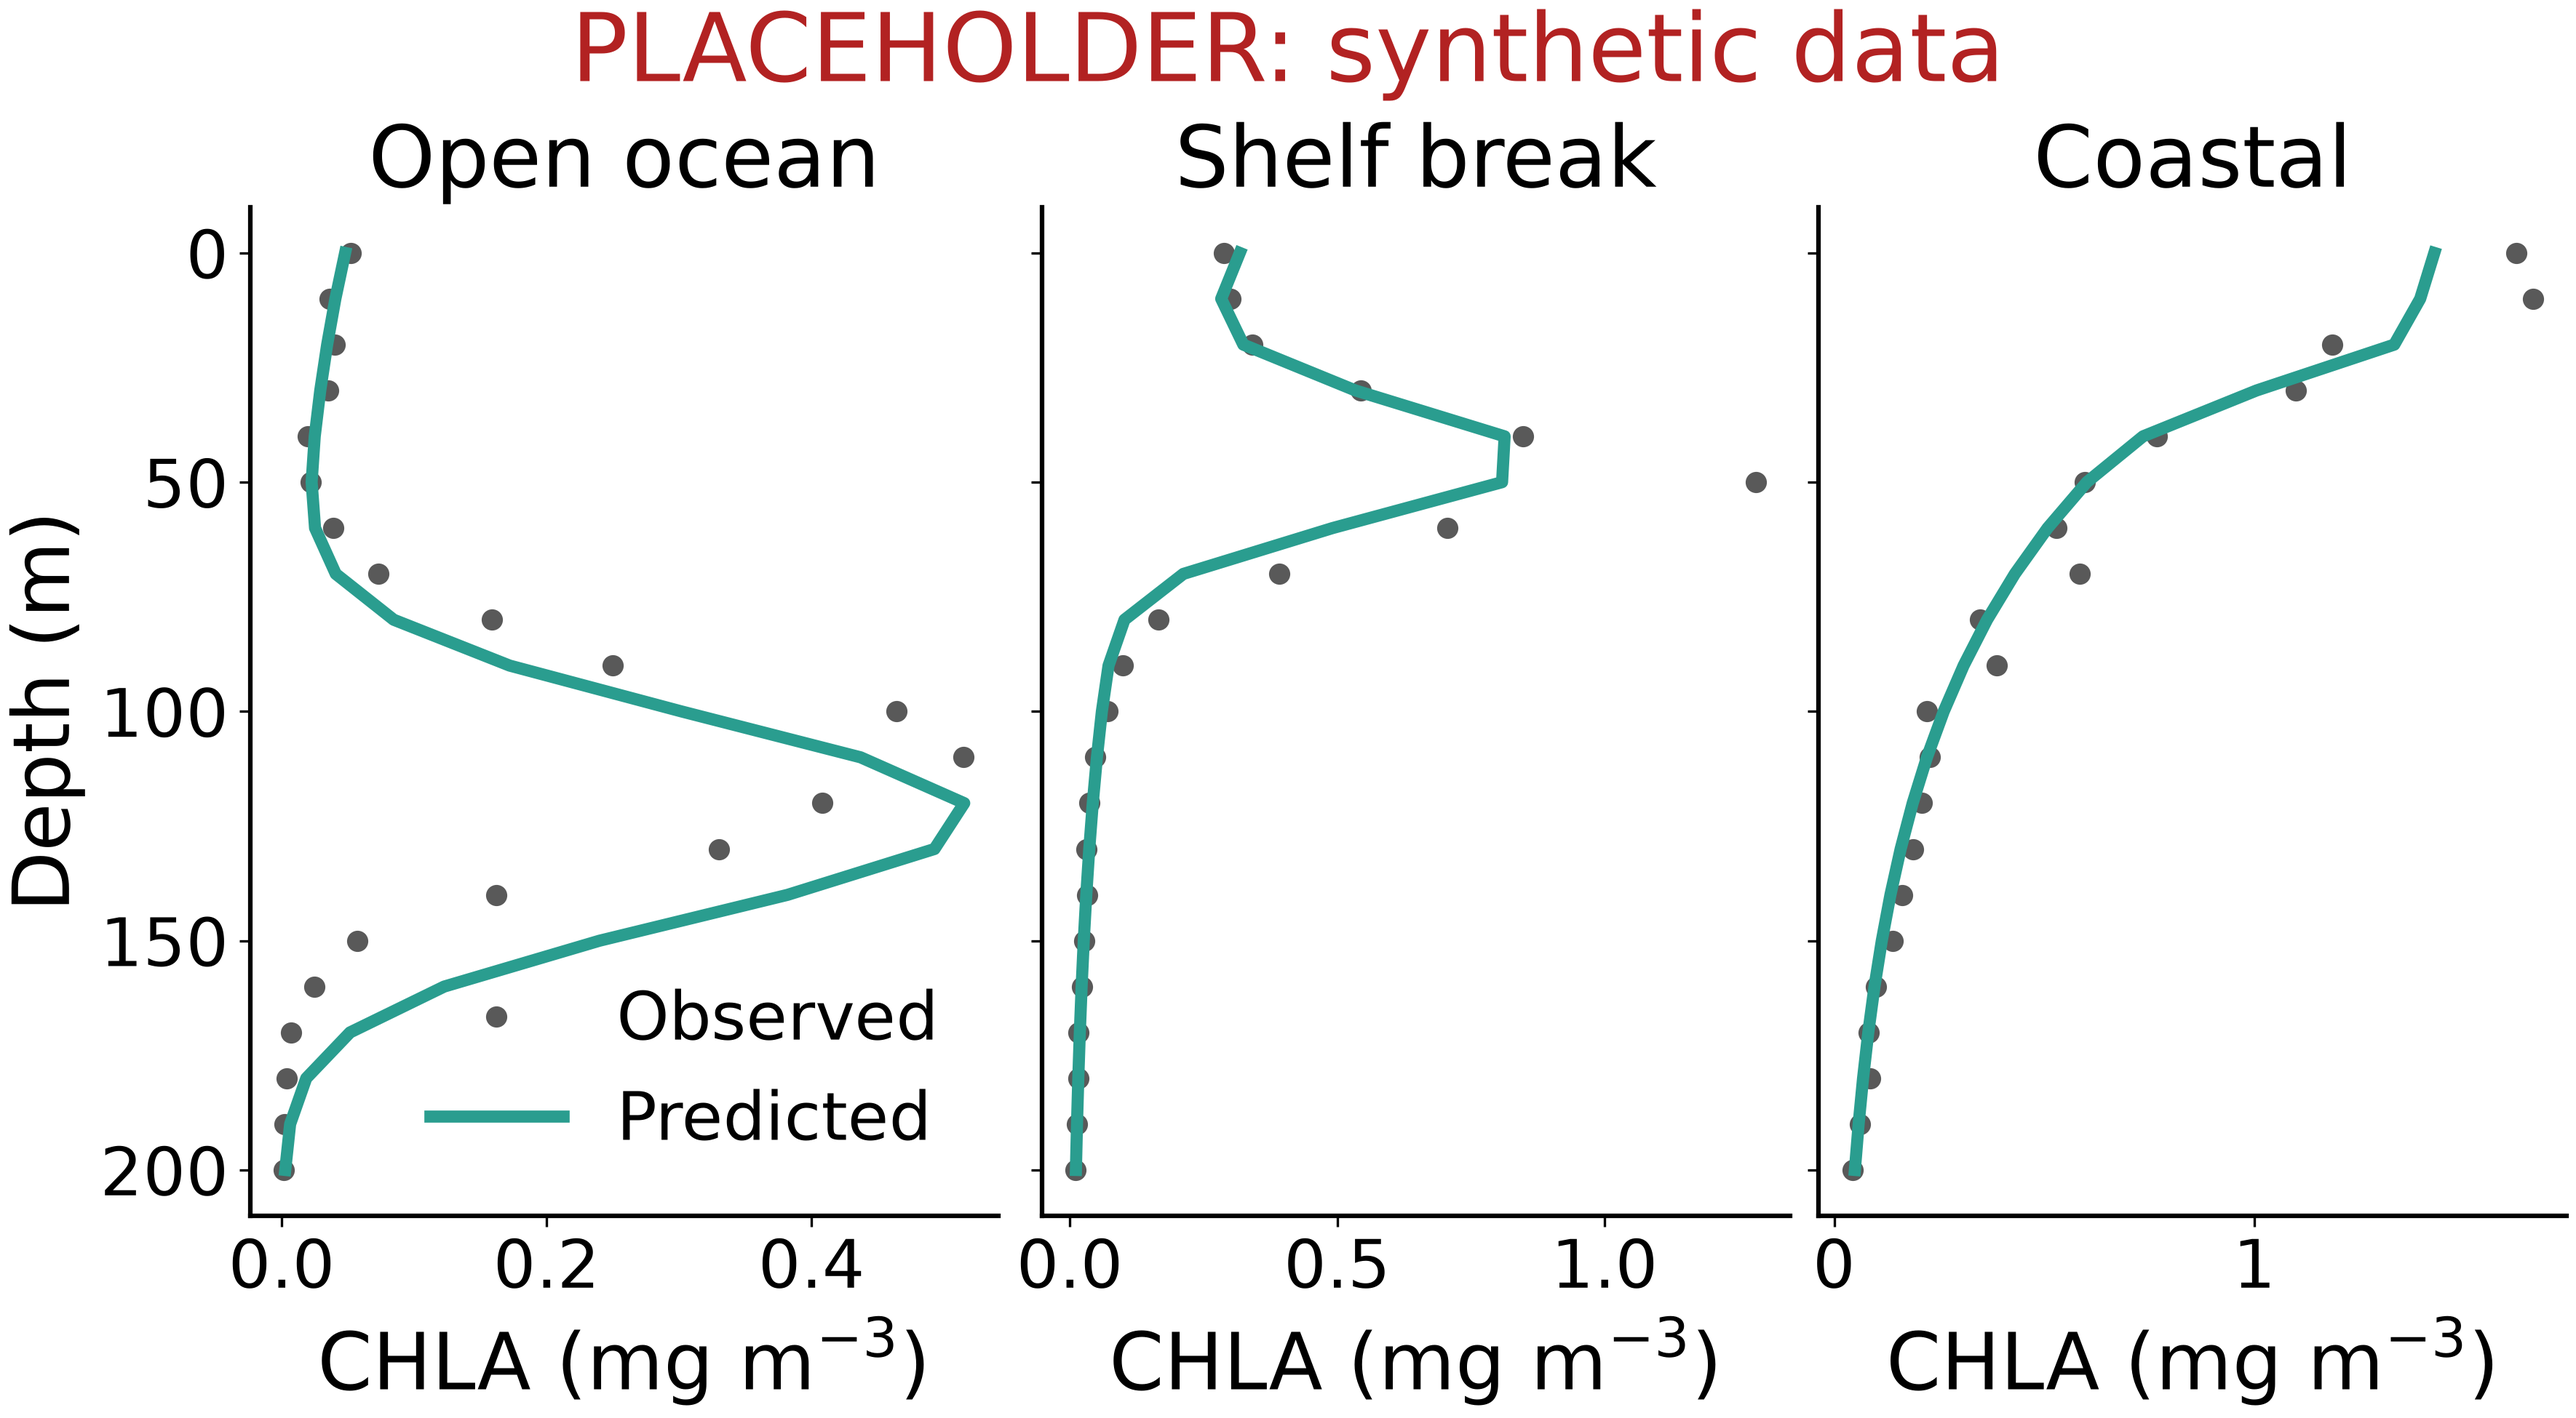
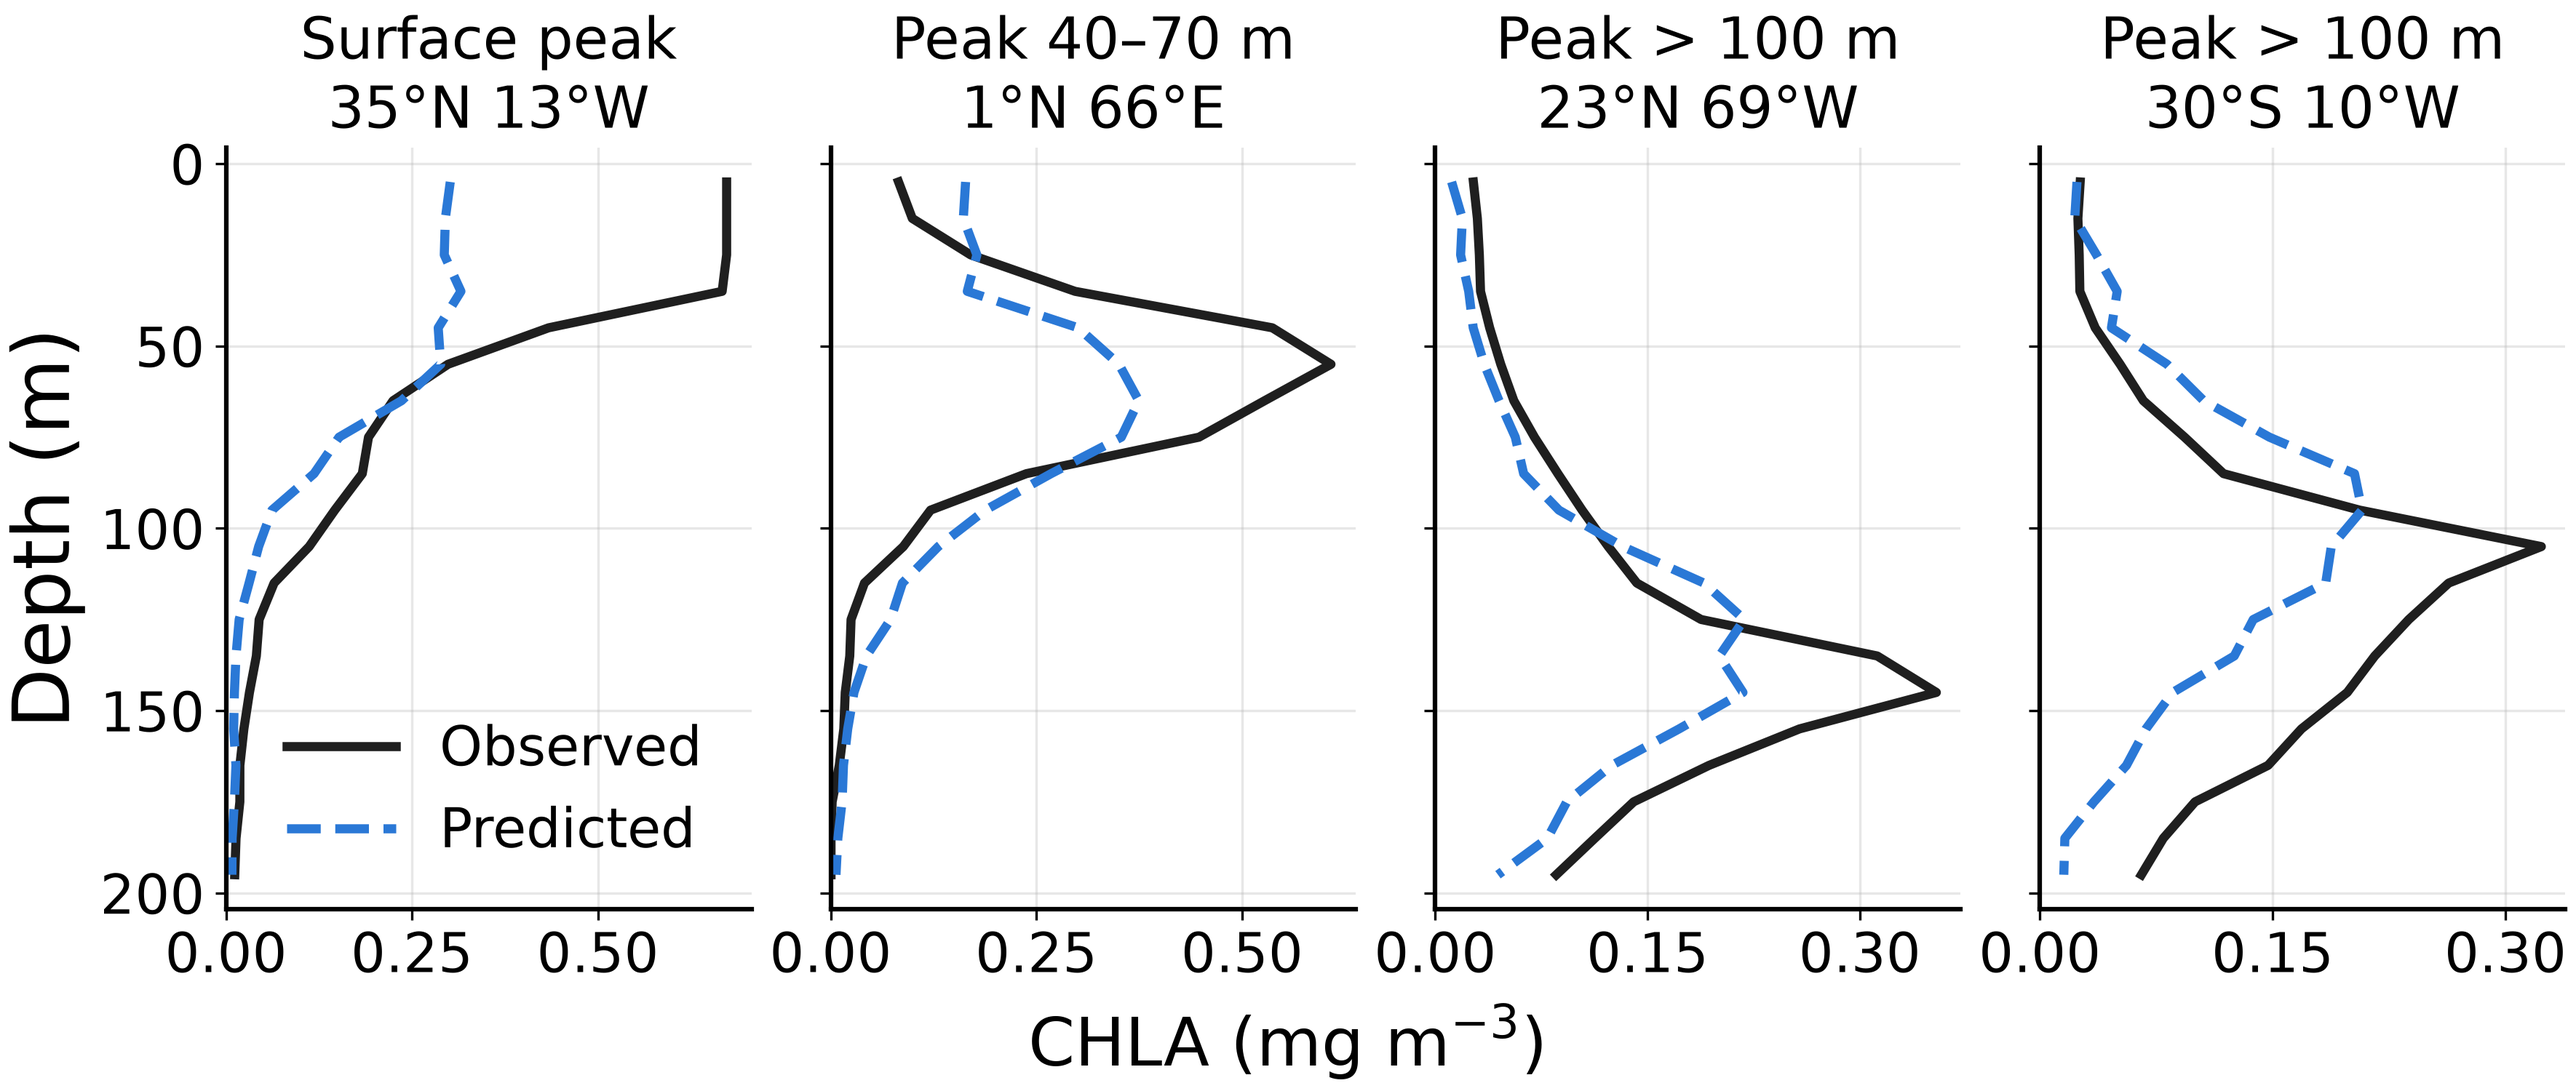
Draft figures: example profiles (intro) and skill by water depth (#11)
profile_metrics.py scores integrated CHLA and peak depth per profile from
the saved out-of-fold predictions. Both figures use the Argo+OOI model
under the space-time block split (#20). Example profiles are random draws
within peak-depth categories, not picked for fit.

diff --git a/poster/scripts/fig_example_profiles.py b/poster/scripts/fig_example_profiles.py
@@ -1,58 +1,79 @@
-"""PLACEHOLDER figure: synthetic observed vs. predicted chlorophyll profiles.
+"""Introduction figure: observed vs predicted CHLA profiles (issue #13).
 
-Shows how a figure script feeds the poster. Replace with a real figure.
-Writes figures/fig_example_profiles.png, sized to one poster column.
+Shows the known result the poster builds on: Rrs predicts the open-ocean
+profile, including a deep chlorophyll maximum. Predictions are out-of-fold
+from the leakage-free evaluation (#20): Argo+OOI model, space-time block
+split (1° cell x 30 d), repeat 0, so each profile was predicted by a model
+that saw nothing from its cell within that 30-day block.
 
-Run from anywhere: python poster/scripts/fig_example_profiles.py
+Profiles are drawn at random (fixed seed) within each panel's category, not
+picked for a good fit. Categories by observed peak depth and water depth
+(ETOPO 2022, poster/analysis/bathymetry). Inputs live in ~/shared-public.
 """
 
 from pathlib import Path
 
-import matplotlib
-
-matplotlib.use("Agg")
 import matplotlib.pyplot as plt
 import numpy as np
+import pandas as pd
 
 from poster_style import COLUMN_WIDTH_IN, DPI, apply_style
 
-OUT = Path(__file__).resolve().parent.parent / "figures" / "fig_example_profiles.png"
+SHARED = Path.home() / "shared-public" / "chla-z"
+PREDS = SHARED / "split-design" / "runs" / "full" / "preds" / "both__spacetime__1deg_30d__r0.parquet"
+DEPTH = SHARED / "bathymetry" / "water_depth_2026_11_23.parquet"
+OUT = Path(__file__).resolve().parents[1] / "figures" / "fig_example_profiles.png"
+SEED = 7
+
+OBS, PRED = "#1f1f1f", "#2a78d6"
 
 
-def profile(depth, surface, peak, peak_depth, width):
-    """Surface background that decays with depth plus a Gaussian deep maximum."""
-    background = surface * np.exp(-depth / 60)
-    dcm = peak * np.exp(-((depth - peak_depth) ** 2) / (2 * width**2))
-    return background + dcm
+def load():
+    p = pd.read_parquet(PREDS)
+    p["top"] = p["bin"].str.split("_").str[1].astype(int)
+    p["z"] = p["top"] + 5
+    wd = pd.read_parquet(DEPTH, columns=["profile_id", "depth_class", "lat", "lon"])
+    p = p.merge(wd, on="profile_id", how="left")
+    full = p.groupby("profile_id")["top"].nunique()
+    p = p[p["profile_id"].isin(full[full == 20].index)]
+    peak = p.loc[p.groupby("profile_id")["y"].idxmax(), ["profile_id", "z"]].set_index("profile_id")["z"]
+    p["peak"] = p["profile_id"].map(peak)
+    return p
 
 
 def main():
     apply_style()
-    rng = np.random.default_rng(42)
-    depth = np.arange(0, 201, 10)
-    cases = [
-        ("Open ocean", dict(surface=0.05, peak=0.45, peak_depth=110, width=20)),
-        ("Shelf break", dict(surface=0.3, peak=0.8, peak_depth=50, width=15)),
-        ("Coastal", dict(surface=1.5, peak=0.4, peak_depth=20, width=10)),
+    p = load()
+    a = p[(p["platform"] == "argo") & (p["depth_class"] == "open ocean")]
+    rng = np.random.default_rng(SEED)
+    cats = [
+        ("Surface peak", a[a["peak"] <= 15]),
+        ("Peak 40–70 m", a[a["peak"].between(40, 70)]),
+        ("Peak > 100 m", a[a["peak"] > 100]),
+        ("Peak > 100 m", a[a["peak"] > 100]),
     ]
-
-    fig, axes = plt.subplots(1, 3, figsize=(COLUMN_WIDTH_IN, 6.5), sharey=True)
-    for ax, (name, params) in zip(axes, cases):
-        truth = profile(depth, **params)
-        observed = truth * rng.lognormal(0, 0.15, depth.size)
-        predicted = profile(depth, **{k: v * rng.uniform(0.85, 1.15) for k, v in params.items()})
-        ax.plot(observed, depth, "o", color="0.35", label="Observed")
-        ax.plot(predicted, depth, "-", lw=4, color="#2a9d8f", label="Predicted")
-        ax.set_title(name)
-        ax.set_xlabel("CHLA (mg m$^{-3}$)")
-    axes[0].set_ylabel("Depth (m)")
-    axes[0].invert_yaxis()
-    axes[0].legend(loc="lower right", frameon=False)
-    fig.suptitle("PLACEHOLDER: synthetic data", color="firebrick")
-
-    OUT.parent.mkdir(exist_ok=True)
+    picked = []
+    for title, s in cats:
+        ids = [i for i in s["profile_id"].unique() if i not in picked]
+        picked.append(rng.choice(ids))
+    fig, axs = plt.subplots(1, len(cats), figsize=(COLUMN_WIDTH_IN, 5.0), sharey=True)
+    for ax, (title, _), pid in zip(axs, cats, picked):
+        g = p[p["profile_id"] == pid].sort_values("z")
+        ax.plot(10 ** g["y"], g["z"], color=OBS, lw=3, label="Observed")
+        ax.plot(10 ** g["yhat"], g["z"], color=PRED, lw=3, ls="--", label="Predicted")
+        ax.set_xlim(left=0)
+        ax.xaxis.set_major_locator(plt.MaxNLocator(3))
+        lat, lon = g["lat"].iat[0], g["lon"].iat[0]
+        ax.set_title(f"{title}\n{abs(lat):.0f}°{'N' if lat >= 0 else 'S'} {abs(lon):.0f}°{'E' if lon >= 0 else 'W'}",
+                     fontsize=19)
+        ax.grid(alpha=0.3)
+        ax.tick_params(labelsize=18)
+    axs[0].invert_yaxis()
+    axs[0].set_ylabel("Depth (m)")
+    fig.supxlabel("CHLA (mg m$^{-3}$)", fontsize=22)
+    axs[0].legend(loc="lower right", frameon=False, fontsize=18)
     fig.savefig(OUT, dpi=DPI)
-    print(f"wrote {OUT}")
+    print("profiles:", list(picked))
 
 
 if __name__ == "__main__":

diff --git a/poster/scripts/fig_coastal_skill.py b/poster/scripts/fig_coastal_skill.py
@@ -1,0 +1,92 @@
+"""Block 2 figure: skill by water depth class (issue #11).
+
+Left: R² of log10 CHLA in each 10 m bin, for profiles in open ocean
+(> 1000 m), slope (200-1000 m) and shelf (< 200 m) water (ETOPO 2022 depth at
+the profile, poster/analysis/bathymetry). Right: observed vs predicted
+integrated CHLA (sum over the contiguous bins from the surface, at least 5).
+
+Predictions are out-of-fold from the leakage-free evaluation (#20): Argo+OOI
+model, space-time block split (1° cell x 30 d), mean over 5 repeats with the
+min-max range shaded. A bin is drawn only when it has at least MIN_UNITS
+independent units (Argo floats or OOI sites) and MIN_ROWS rows in that class,
+so a handful of instruments cannot make a point.
+"""
+
+from pathlib import Path
+import sys
+
+import matplotlib.pyplot as plt
+import numpy as np
+import pandas as pd
+
+from poster_style import COLUMN_WIDTH_IN, DPI, apply_style
+
+sys.path.insert(0, str(Path(__file__).resolve().parents[1] / "analysis" / "split_design"))
+import profile_metrics as pm  # noqa: E402
+
+SHARED = Path.home() / "shared-public" / "chla-z"
+PREDS = sorted((SHARED / "split-design" / "runs" / "full" / "preds").glob("both__spacetime__1deg_30d__r*.parquet"))
+DEPTH = SHARED / "bathymetry" / "water_depth_2026_11_23.parquet"
+OUT = Path(__file__).resolve().parents[1] / "figures" / "fig_coastal_skill.png"
+CLASSES = [("open ocean", "Open ocean > 1000 m", "#2a78d6"),
+           ("slope", "Slope 200–1000 m", "#eb6834"),
+           ("shelf", "Shelf < 200 m", "#1baf7a")]
+MIN_UNITS, MIN_ROWS = 3, 100
+
+
+def r2(g):
+    e = g["yhat"] - g["y"]
+    return 1 - (e ** 2).sum() / ((g["y"] - g["y"].mean()) ** 2).sum()
+
+
+def main():
+    apply_style()
+    wd = pd.read_parquet(DEPTH, columns=["profile_id", "depth_class"])
+    per_bin, integ = [], []
+    for f in PREDS:
+        p = pd.read_parquet(f).merge(wd, on="profile_id")
+        p["z"] = p["bin"].str.split("_").str[1].astype(int) + 5
+        g = p.groupby(["depth_class", "z"])
+        s = g.apply(r2, include_groups=False).rename("r2").to_frame()
+        s["units"], s["rows"] = g["pixel"].nunique(), g.size()
+        per_bin.append(s.reset_index().assign(rep=f.stem))
+        pr = pm.profiles(p.drop(columns=["z", "depth_class"])).merge(wd, on="profile_id")
+        integ.append(pr[pr["n_bins"] >= 5].assign(rep=f.stem))
+    b = pd.concat(per_bin)
+    b = b[(b["units"] >= MIN_UNITS) & (b["rows"] >= MIN_ROWS)]
+    b = b.groupby(["depth_class", "z"])["r2"].agg(["mean", "min", "max"]).reset_index()
+    ii = pd.concat(integ)
+    ii = ii[ii["rep"] == ii["rep"].min()]
+
+    fig, (ax, bx) = plt.subplots(1, 2, figsize=(COLUMN_WIDTH_IN, 5.5), width_ratios=[1.35, 1])
+    for key, lab, c in CLASSES:
+        d = b[b["depth_class"] == key]
+        ax.fill_betweenx(d["z"], d["min"], d["max"], color=c, alpha=0.2, lw=0)
+        ax.plot(d["mean"], d["z"], color=c, lw=3, marker="o", ms=6, label=lab)
+        q = ii[ii["depth_class"] == key]
+        bx.scatter(q["int_obs"], q["int_pred"], s=10 if key == "open ocean" else 22, color=c, alpha=0.35 if key == "open ocean" else 0.8,
+                   lw=0, label=f"{lab} (n={len(q)})")
+    ax.axvline(0, color="0.4", lw=1)
+    ax.set_xlim(-0.7, 1)
+    ax.invert_yaxis()
+    ax.set_xlabel("R² (log10 CHLA)")
+    ax.set_ylabel("Depth (m)")
+    ax.grid(alpha=0.3)
+    ax.legend(loc="lower left", frameon=False, fontsize=16, borderaxespad=0.2, handlelength=1.2)
+    lims = [ii[["int_obs", "int_pred"]].min().min() * 0.8, ii[["int_obs", "int_pred"]].max().max() * 1.2]
+    bx.plot(lims, lims, color="0.3", lw=1, ls="--")
+    bx.set(xscale="log", yscale="log", xlim=lims, ylim=lims)
+    bx.set_xlabel("Observed (mg m$^{-2}$)")
+    bx.set_ylabel("Predicted (mg m$^{-2}$)")
+    bx.set_title("Integrated CHLA", fontsize=22)
+    bx.grid(alpha=0.3)
+    fig.savefig(OUT, dpi=DPI)
+    print(b.pivot(index="z", columns="depth_class", values="mean").round(2).to_string())
+    print(ii.groupby("depth_class").apply(lambda q: pd.Series({
+        "n": len(q), "units": q["pixel"].nunique(),
+        "r2_log": 1 - ((np.log10(q.int_pred) - np.log10(q.int_obs)) ** 2).sum()
+        / ((np.log10(q.int_obs) - np.log10(q.int_obs).mean()) ** 2).sum()}), include_groups=False).round(2))
+
+
+if __name__ == "__main__":
+    main()

diff --git a/poster/analysis/split_design/profile_metrics.py b/poster/analysis/split_design/profile_metrics.py
@@ -1,0 +1,95 @@
+"""Profile-level skill from the saved predictions: integrated CHLA and peak depth.
+
+Eli (2026-11-23): total CHLA in the water column (0-200 m, or to the bottom)
+is the most interesting quantity; the depth of the CHLA peak is the second.
+
+Per profile (one row of the release tables) the out-of-fold predictions of all
+its bins are put back together. Every design except `row` assigns folds by row
+group, so all bins of a profile come from models that never saw its group;
+under `row` the 20% test rows are whole profiles too.
+
+Only the contiguous bins from 0-10 m down are used (stop at the first missing
+bin), and observed and predicted are summed over the same bins:
+
+  integrated CHLA = sum(CHLA_bin x 10 m), mg m^-2, scored on log10;
+  peak depth      = mid-depth of the bin with the highest CHLA, scored as mean
+                    absolute error (m) and the share within 20 m (as Kai did).
+
+Subsets: `int5` = at least 5 contiguous bins (0-50 m or deeper), `full` = all
+20 bins (0-200 m). Peak depth uses profiles with at least 10 contiguous bins
+(to 100 m), else a surface peak is forced by truncation.
+
+OOI note: only the three shallow profilers (CE04 offshore, RS01 slope base,
+RS03 Axial) give such columns; Pioneer has none, and the shelf profilers
+(CE01/02/06/07) give a few dozen short columns.
+
+Writes profile_metrics.csv next to preds/.
+"""
+
+import argparse
+from pathlib import Path
+
+import numpy as np
+import pandas as pd
+
+BINS = [f"CHLA_{a}_{a + 10}" for a in range(0, 200, 10)]
+MID = np.arange(5, 200, 10)
+
+
+def profiles(p: pd.DataFrame) -> pd.DataFrame:
+    keys = ["dataset", "design", "variant", "repeat", "profile_id", "platform", "pixel"]
+    y = p.pivot_table(index=keys, columns="bin", values="y").reindex(columns=BINS)
+    yh = p.pivot_table(index=keys, columns="bin", values="yhat").reindex(columns=BINS)
+    ok = y.notna().to_numpy()
+    n = np.where(ok.all(axis=1), 20, np.argmin(ok, axis=1))
+    n = np.where(ok[:, 0], n, 0)
+    mask = np.arange(20)[None, :] < n[:, None]
+    Y, YH = 10 ** y.to_numpy(), 10 ** yh.to_numpy()
+    out = y.index.to_frame(index=False)
+    out["n_bins"] = n
+    out["int_obs"] = np.where(mask, Y, 0).sum(axis=1) * 10
+    out["int_pred"] = np.where(mask, YH, 0).sum(axis=1) * 10
+    big = np.where(mask, Y, -np.inf), np.where(mask, YH, -np.inf)
+    out["peak_obs"] = MID[np.argmax(big[0], axis=1)]
+    out["peak_pred"] = MID[np.argmax(big[1], axis=1)]
+    return out
+
+
+def score(g: pd.DataFrame) -> pd.Series:
+    lo, lp = np.log10(g["int_obs"]), np.log10(g["int_pred"])
+    e = lp - lo
+    sst = ((lo - lo.mean()) ** 2).sum()
+    pk = g[g["n_bins"] >= 10]
+    d = (pk["peak_pred"] - pk["peak_obs"]).abs()
+    return pd.Series({
+        "n": len(g), "n_units": g["pixel"].nunique(),
+        "int_r2": 1 - (e ** 2).sum() / sst if sst > 0 else np.nan,
+        "int_rmse": np.sqrt((e ** 2).mean()), "int_bias": e.mean(),
+        "peak_n": len(pk), "peak_mae_m": d.mean() if len(pk) else np.nan,
+        "peak_within20": (d <= 20).mean() if len(pk) else np.nan,
+    })
+
+
+def main():
+    ap = argparse.ArgumentParser()
+    ap.add_argument("run", type=Path)
+    args = ap.parse_args()
+    rows = []
+    for f in sorted((args.run / "preds").glob("*.parquet")):
+        pr = profiles(pd.read_parquet(f))
+        evals = [("all", pr)]
+        if pr["dataset"].iat[0] == "both":
+            evals += [(k, pr[pr["platform"] == k]) for k in ("argo", "ooi")]
+        for ev, q in evals:
+            for sub, s in [("int5", q[q["n_bins"] >= 5]), ("full", q[q["n_bins"] == 20])]:
+                if len(s) < 20:
+                    continue
+                keys = ["dataset", "design", "variant", "repeat"]
+                rows.append(s.groupby(keys).apply(score, include_groups=False).reset_index().assign(eval=ev, subset=sub))
+    m = pd.concat(rows, ignore_index=True)
+    m.to_csv(args.run / "profile_metrics.csv", index=False)
+    print(f"{len(m)} rows -> {args.run / 'profile_metrics.csv'}")
+
+
+if __name__ == "__main__":
+    main()
